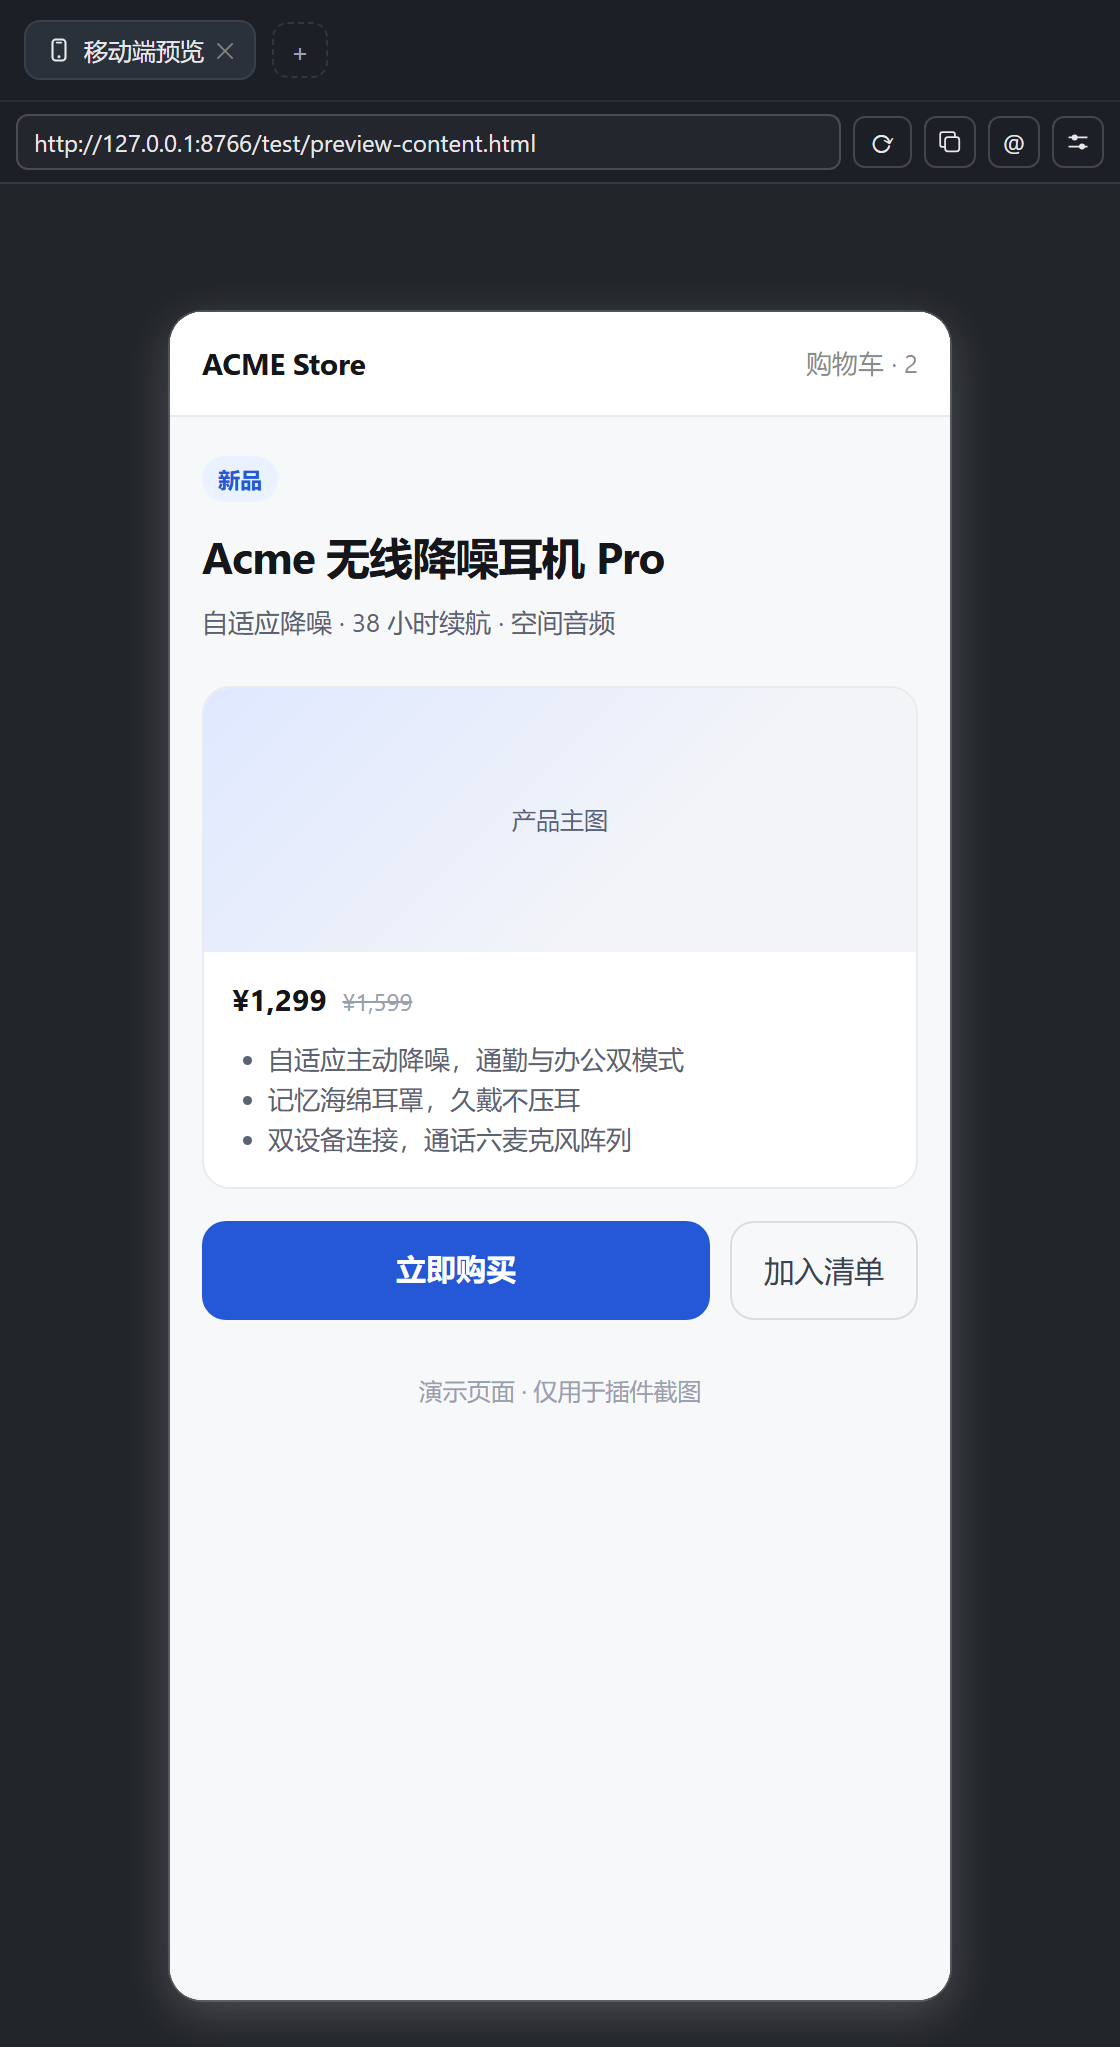
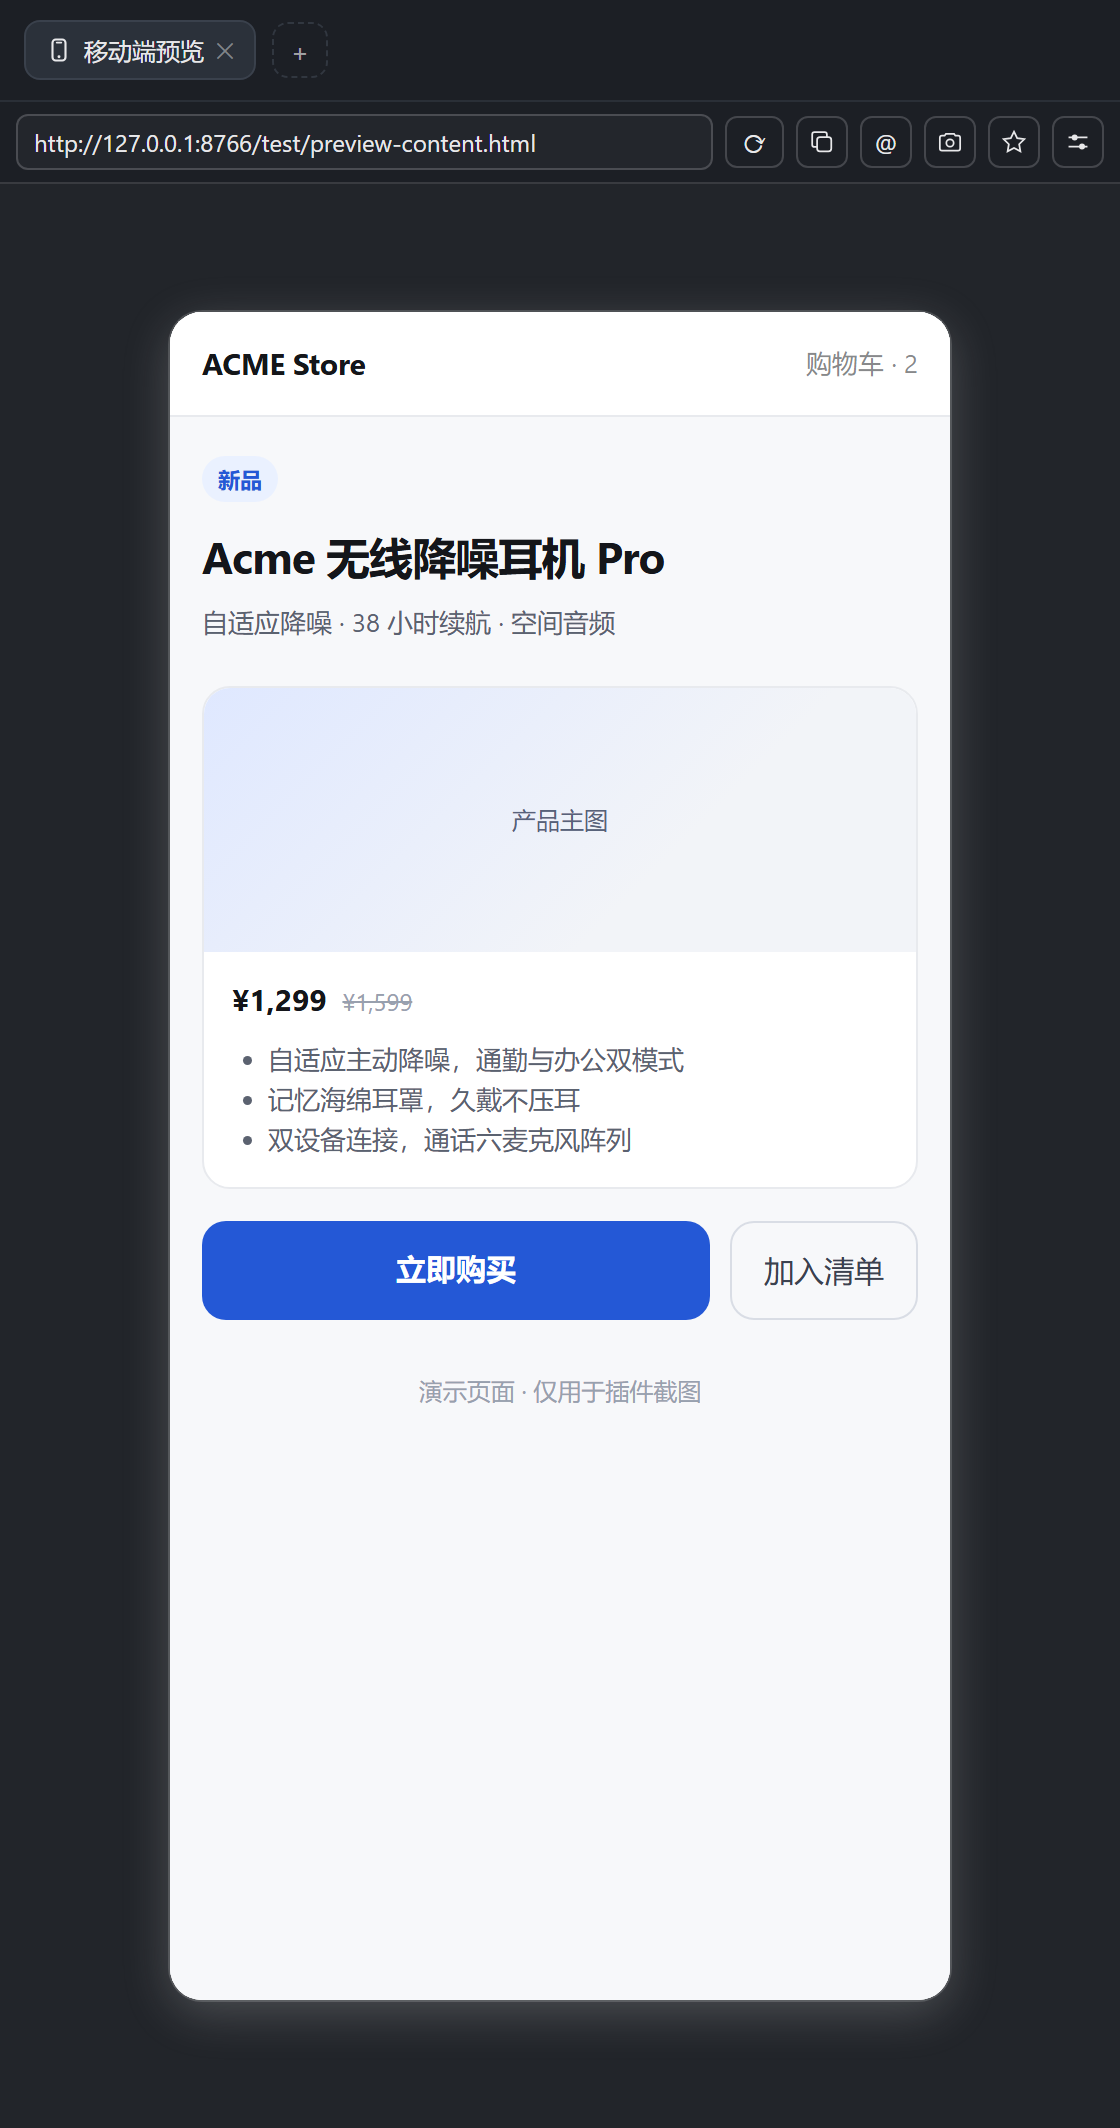
feat: remember a default home page and screenshot the device frame (v0.3.0)

diff --git a/client.js b/client.js
@@ -12,6 +12,8 @@ window.__ModuleLoader__.load({
     const KIND = 'mobile-browser';
     /** Per-profile memory of the last device size. */
     const SIZE_STORAGE_KEY = 'dsh.sidebar-mobile-browser.size';
+    /** Per-profile default page: a blank tab of this type opens it. */
+    const HOME_STORAGE_KEY = 'dsh.sidebar-mobile-browser.home';
     /** Plugin stylesheet identity inside the page. */
     const STYLE_KEY = 'dsh-sidebar-mobile-browser/client.css';
     /** How long a remembered page stays offered to the `@` menu. */
@@ -69,6 +71,15 @@ window.__ModuleLoader__.load({
       'command.url': '引用当前预览页地址',
       'command.urlHint': '把预览页 URL 写进输入框',
       'error.insert': '插入失败：该会话的输入框尚未就绪。',
+      'action.home.set': '设为默认主页',
+      'action.home.clear': '取消默认主页',
+      'empty.openHome': '打开默认主页',
+      'empty.home': '默认主页：{url}',
+      'action.shot': '截图（捕获时请选择"当前标签页"）',
+      'action.shotCopied': '截图已复制',
+      'action.shotSaved': '截图已下载',
+      'error.captureDenied': '截图未完成：捕获被取消或不被允许。可改用系统截图（Win+Shift+S）。',
+      'error.captureBlank': '截图失败：没有取到画面，请重试或改用系统截图。',
     };
 
     const en = {
@@ -95,6 +106,15 @@ window.__ModuleLoader__.load({
       'command.url': 'Insert the preview page URL',
       'command.urlHint': 'Write the preview page URL into the composer',
       'error.insert': 'Insertion failed: this session has no composer yet.',
+      'action.home.set': 'Set as default page',
+      'action.home.clear': 'Clear default page',
+      'empty.openHome': 'Open the default page',
+      'empty.home': 'Default page: {url}',
+      'action.shot': 'Screenshot (pick "This tab" when asked)',
+      'action.shotCopied': 'Screenshot copied',
+      'action.shotSaved': 'Screenshot downloaded',
+      'error.captureDenied': 'Screenshot cancelled or not permitted. Use the system screenshot (Win+Shift+S) instead.',
+      'error.captureBlank': 'Screenshot failed: no frame was captured. Retry, or use the system screenshot.',
     };
 
     /** Stylesheet: inherits the surrounding ink with color-mix, no fixed palette. */
@@ -118,6 +138,9 @@ window.__ModuleLoader__.load({
 .dmb-frame{position:absolute;top:0;left:0;border:0;background:#fff;transform-origin:top left}
 .dmb-empty{max-width:280px;text-align:center;opacity:.72;line-height:1.6}
 .dmb-empty-title{font-weight:600;margin-bottom:4px}
+.dmb-empty-actions{margin-top:10px;display:flex;flex-direction:column;align-items:center;gap:6px}
+.dmb-empty-home{opacity:.6;word-break:break-all}
+.dmb-btn[aria-pressed="true"]{background:color-mix(in srgb,currentColor 12%,transparent);border-color:color-mix(in srgb,currentColor 38%,transparent)}
 .dmb-error{padding:0 10px 8px;color:#d9534f}
 .dmb-title{display:inline-flex;align-items:center;gap:5px;min-width:0;overflow:hidden;text-overflow:ellipsis;white-space:nowrap}
 `;
@@ -159,6 +182,46 @@ window.__ModuleLoader__.load({
       const number = Math.round(Number(value));
       if (!Number.isFinite(number)) return MIN_SIDE;
       return Math.min(MAX_SIDE, Math.max(MIN_SIDE, number));
+    }
+
+    /** Read the remembered default page; anything unusable reads as "none". */
+    function readHome() {
+      try {
+        const raw = window.localStorage.getItem(HOME_STORAGE_KEY);
+        if (raw === null || raw === '') return '';
+        const value = normalizeUrl(raw);
+        return value.ok ? value.url : '';
+      } catch (error) {
+        void error;
+      }
+      return '';
+    }
+
+    /** Remember the default page; an empty string forgets it. */
+    function writeHome(url) {
+      try {
+        if (url !== '') {
+          window.localStorage.setItem(HOME_STORAGE_KEY, url);
+        } else if (typeof window.localStorage.removeItem === 'function') {
+          window.localStorage.removeItem(HOME_STORAGE_KEY);
+        } else {
+          window.localStorage.setItem(HOME_STORAGE_KEY, '');
+        }
+      } catch (error) {
+        void error;
+      }
+    }
+
+    /** Save one blob through a temporary anchor. */
+    function downloadBlob(blob, name) {
+      const href = URL.createObjectURL(blob);
+      const anchor = document.createElement('a');
+      anchor.href = href;
+      anchor.download = name;
+      document.body.appendChild(anchor);
+      anchor.click();
+      anchor.remove();
+      window.setTimeout(() => URL.revokeObjectURL(href), 2000);
     }
 
     /** Turn typed input into an addressable http(s) URL. */
@@ -259,6 +322,37 @@ window.__ModuleLoader__.load({
       );
     }
 
+    /** A star: filled once this page is the default home, outlined otherwise. */
+    function HomeGlyph({ filled }) {
+      return h(
+        'svg',
+        { width: 14, height: 14, viewBox: '0 0 16 16', 'aria-hidden': true, style: { display: 'block' } },
+        h('path', {
+          d: 'M8 2.1l1.82 3.7 4.08.6-2.95 2.87.7 4.06L8 11.4l-3.65 1.92.7-4.06L2.1 6.4l4.08-.6z',
+          fill: filled === true ? 'currentColor' : 'none',
+          stroke: 'currentColor',
+          strokeWidth: 1.2,
+          strokeLinejoin: 'round',
+        }),
+      );
+    }
+
+    /** A camera outline for the screenshot button. */
+    function CameraGlyph() {
+      return h(
+        'svg',
+        { width: 14, height: 14, viewBox: '0 0 16 16', 'aria-hidden': true, style: { display: 'block' } },
+        h('path', {
+          d: 'M2.2 5.6c0-.66.54-1.2 1.2-1.2h1.54l.74-1.1h4.64l.74 1.1h1.54c.66 0 1.2.54 1.2 1.2v6.1c0 .66-.54 1.2-1.2 1.2H3.4c-.66 0-1.2-.54-1.2-1.2z',
+          fill: 'none',
+          stroke: 'currentColor',
+          strokeWidth: 1.2,
+          strokeLinejoin: 'round',
+        }),
+        h('circle', { cx: 8, cy: 8.6, r: 2.1, fill: 'none', stroke: 'currentColor', strokeWidth: 1.2 }),
+      );
+    }
+
     return {
       inject: ['slots', 'locale', 'sessions', 'commandUi', 'sidebarRight', 'sidebarRightTabs', 'inputTriggers'],
       apply(ctx) {
@@ -307,7 +401,9 @@ window.__ModuleLoader__.load({
             const entry = pages.get(tabId);
             return entry === undefined ? '' : entry.url;
           }, [tabId]);
-          const initial = seeded.ok ? seeded.url : remembered;
+          /** The default page this profile opens when a tab starts blank. */
+          const [home, setHome] = React.useState(readHome);
+          const initial = seeded.ok ? seeded.url : remembered !== '' ? remembered : home;
 
           const [size, setSize] = React.useState(readSize);
           const [draft, setDraft] = React.useState(initial);
@@ -316,6 +412,8 @@ window.__ModuleLoader__.load({
           const [revision, setRevision] = React.useState(0);
           const [copied, setCopied] = React.useState(false);
           const [inserted, setInserted] = React.useState(false);
+          /** '' | 'copied' | 'saved' — what the screenshot button just did. */
+          const [shot, setShot] = React.useState('');
           const [error, setError] = React.useState('');
           /** The size row is collapsed by default; the toolbar toggle reveals it. */
           const [sizeOpen, setSizeOpen] = React.useState(false);
@@ -359,16 +457,19 @@ window.__ModuleLoader__.load({
             return () => window.clearTimeout(timer);
           }, [inserted]);
 
+          React.useEffect(() => {
+            if (shot === '') return undefined;
+            const timer = window.setTimeout(() => setShot(''), 1600);
+            return () => window.clearTimeout(timer);
+          }, [shot]);
+
           const open = () => {
             const result = normalizeUrl(draft);
             if (!result.ok) {
               setError(result.reason === 'scheme' ? copy('error.scheme') : copy('error.empty'));
               return;
             }
-            setError('');
-            setDraft(result.url);
-            setUrl(result.url);
-            setRevision((value) => value + 1);
+            show(result.url);
           };
 
           const copyUrl = () => {
@@ -394,6 +495,98 @@ window.__ModuleLoader__.load({
             } catch (failure) {
               void failure;
               failed();
+            }
+          };
+
+          /** Show one already-validated address without re-reading the draft. */
+          const show = (target) => {
+            setError('');
+            setDraft(target);
+            setUrl(target);
+            setRevision((value) => value + 1);
+          };
+
+          /** Remember this page as the default home, or forget it again. */
+          const toggleHome = () => {
+            if (url === '') return;
+            const next = home === url ? '' : url;
+            setHome(next);
+            writeHome(next);
+          };
+
+          /**
+           * Photograph the device frame. Cross-origin pages cannot be read back
+           * from their iframe (their pixels are opaque), so the honest capture
+           * path is to screen-capture the tab and crop the frame out of it.
+           */
+          const shootPage = async () => {
+            if (url === '') return;
+            const stage = stageRef.current;
+            const media = typeof navigator === 'undefined' ? undefined : navigator.mediaDevices;
+            if (stage === null || media === undefined || typeof media.getDisplayMedia !== 'function') {
+              setError(copy('error.captureDenied'));
+              return;
+            }
+            let stream;
+            try {
+              stream = await media.getDisplayMedia({ video: { frameRate: 2 }, audio: false });
+            } catch (failure) {
+              void failure;
+              setError(copy('error.captureDenied'));
+              return;
+            }
+            try {
+              const video = document.createElement('video');
+              video.muted = true;
+              video.srcObject = stream;
+              await video.play();
+              if (video.videoWidth === 0) {
+                await new Promise((resolve) => {
+                  window.setTimeout(resolve, 1200);
+                  video.addEventListener('loadeddata', resolve, { once: true });
+                });
+              }
+              const target = stage.querySelector('.dmb-device');
+              const box = (target === null ? stage : target).getBoundingClientRect();
+              const scaleX = video.videoWidth === 0 ? 1 : video.videoWidth / Math.max(1, window.innerWidth);
+              const scaleY = video.videoHeight === 0 ? 1 : video.videoHeight / Math.max(1, window.innerHeight);
+              const canvas = document.createElement('canvas');
+              canvas.width = Math.max(1, Math.round(box.width * scaleX));
+              canvas.height = Math.max(1, Math.round(box.height * scaleY));
+              const painter = canvas.getContext('2d');
+              if (painter === null) {
+                setError(copy('error.captureBlank'));
+                return;
+              }
+              painter.drawImage(
+                video,
+                box.left * scaleX, box.top * scaleY, box.width * scaleX, box.height * scaleY,
+                0, 0, canvas.width, canvas.height,
+              );
+              const blob = await new Promise((resolve) => canvas.toBlob(resolve, 'image/png'));
+              if (blob === null) {
+                setError(copy('error.captureBlank'));
+                return;
+              }
+              const clipboard = navigator.clipboard;
+              if (clipboard !== undefined && typeof clipboard.write === 'function' && typeof window.ClipboardItem === 'function') {
+                try {
+                  await clipboard.write([new window.ClipboardItem({ 'image/png': blob })]);
+                  setError('');
+                  setShot('copied');
+                  return;
+                } catch (failure) {
+                  void failure;
+                }
+              }
+              downloadBlob(blob, `mobile-preview-${hostOf(url)}-${Date.now()}.png`);
+              setError('');
+              setShot('saved');
+            } catch (failure) {
+              void failure;
+              setError(copy('error.captureBlank'));
+            } finally {
+              stream.getTracks().forEach((track) => track.stop());
             }
           };
 
@@ -442,6 +635,7 @@ window.__ModuleLoader__.load({
           };
 
           const currentPreset = size.preset === undefined ? 'custom' : size.preset;
+          const isHome = home !== '' && home === url;
 
           return h(
             'div',
@@ -496,6 +690,23 @@ window.__ModuleLoader__.load({
                 disabled: url === '',
                 onClick: insertUrl,
               }, '@'),
+              h('button', {
+                type: 'button',
+                className: 'dmb-btn dmb-btn-icon',
+                title: shot === 'copied' ? copy('action.shotCopied') : shot === 'saved' ? copy('action.shotSaved') : copy('action.shot'),
+                'aria-label': copy('action.shot'),
+                disabled: url === '',
+                onClick: shootPage,
+              }, h(CameraGlyph)),
+              h('button', {
+                type: 'button',
+                className: 'dmb-btn dmb-btn-icon',
+                title: isHome ? copy('action.home.clear') : copy('action.home.set'),
+                'aria-label': copy('action.home.set'),
+                'aria-pressed': isHome,
+                disabled: url === '',
+                onClick: toggleHome,
+              }, h(HomeGlyph, { filled: isHome })),
               h('button', {
                 type: 'button',
                 className: 'dmb-btn dmb-btn-icon',
@@ -567,7 +778,10 @@ window.__ModuleLoader__.load({
               url === ''
                 ? h('div', { className: 'dmb-empty' },
                     h('div', { className: 'dmb-empty-title' }, copy('empty.title')),
-                    h('div', null, copy('empty.body')))
+                    h('div', null, copy('empty.body')),
+                    home === '' ? null : h('div', { className: 'dmb-empty-actions' },
+                      h('button', { type: 'button', className: 'dmb-btn', onClick: () => show(home) }, copy('empty.openHome')),
+                      h('div', { className: 'dmb-empty-home' }, copy('empty.home', { url: hostOf(home) }))))
                 : h('div', {
                     className: 'dmb-device',
                     style: { width: `${Math.round(size.width * scale)}px`, height: `${Math.round(size.height * scale)}px` },

diff --git a/README.md b/README.md
@@ -13,6 +13,8 @@ insertion of the current page URL from the composer, one-click copy.
 - `@` 候选：本会话预览过的页面，最近一个标「当前页面地址」，选中即插入纯文本 URL
 - `/url` 快捷指令：选中即把当前页面地址写进输入框（不用开 `@` 菜单、不用鼠标）
 - 工具栏 `@` 按钮：同一件事的一键版，插到光标处，原有草稿不动
+- 工具栏 `⭐` 按钮：把当前页设为**默认主页**（`localStorage`），之后新开的空白标签页自动打开它；再点一次取消
+- 工具栏相机按钮：**截图当前页** —— 抓的是设备框里的真实像素（复制到剪贴板，失败则下载 PNG）
 - 工具栏：回车即打开、`⟳` 重载、复制图标（成功后短暂变对勾）、滑块图标切换尺寸栏
 - 多标签页；切换标签不重载页面（`keepMounted`）；重启 DSH 后能恢复上次打开的页面
 
@@ -31,10 +33,14 @@ insertion of the current page URL from the composer, one-click copy.
 2. 地址栏输入 `example.com` 或完整 URL，**回车**打开（无单独“打开”按钮）。
 3. 点工具栏最右的**滑块图标**展开尺寸栏：选预设，或选「自定义」直接改宽高数字（回车 / 失焦生效）；
    再点一次收起。默认收起，所以每次新开标签页都从「只有地址栏」的紧凑状态开始。
-4. 工具栏：`⟳` 重载、复制图标复制当前 URL、`@` 把当前 URL 插入对话框、滑块图标切换尺寸栏；
-   尺寸栏展开时右侧还有 `⟲` 横竖屏互换。
-5. 每个会话记住最近 5 个预览页，用 `@` 可以回到其中任一页。
-6. 对话框输入 `@` → 选「当前页面地址」即可把 URL 作为纯文本插入；
+4. 工具栏：`⟳` 重载、复制图标复制当前 URL、`@` 把当前 URL 插入对话框、相机图标截图、
+   `⭐` 设为默认主页、滑块图标切换尺寸栏；尺寸栏展开时右侧还有 `⟲` 横竖屏互换。
+5. 点 `⭐` 之后，新开的空白标签页会直接打开这个默认主页；空状态里也有「打开默认主页」按钮。
+   再点一次 `⭐` 取消默认主页。
+6. 点相机图标截图：浏览器会弹出捕获选择器，选 **「当前标签页」**，插件按设备框裁剪后复制到剪贴板
+   （剪贴板不支持图片时改为下载 `mobile-preview-<host>-<时间戳>.png`）。
+7. 每个会话记住最近 5 个预览页，用 `@` 可以回到其中任一页。
+8. 对话框输入 `@` → 选「当前页面地址」即可把 URL 作为纯文本插入；
    或输入 `/url` 回车 —— 当前页面地址直接写进输入框，草稿里已有的内容会保留。
    两者都只在**该会话已经打开过预览页**时出现。
 
@@ -64,6 +70,9 @@ insertion of the current page URL from the composer, one-click copy.
 - 只改视口尺寸，**不伪造移动端 User-Agent**；依赖真机 UA 的站点预览会与手机不一致。
 - 桌面端嵌入的 webview 标签页不参与尺寸模拟（本插件只作用于自己注册的标签页类型）。
 - 跨域页面的地址栏不会跟随站内跳转（浏览器同源策略限制），此时用书签列表或重新输入地址。
+- 截图走**屏幕捕获**（`getDisplayMedia`）再按设备框裁剪：跨域 iframe 的像素无法被直接读取，
+  屏幕捕获是唯一能做到「所见即所截」的路子。因此每次截图都要在系统选择器里选**「当前标签页」**；
+  若环境拒绝屏幕捕获（例如未开放该能力的 Electron 桌面端），会提示改用系统截图（Win+Shift+S）。
 - DSH 以 HTTPS 提供服务时，`http://` 页面会被浏览器按混合内容拦截。
 
 ## 工作原理

diff --git a/CHANGELOG.md b/CHANGELOG.md
@@ -1,5 +1,20 @@
 # Changelog
 
+## v0.3.0 — 2026-10-24
+
+**新增**
+
+- 工具栏 `⭐`：把当前页设为**默认主页**（存 `localStorage`），之后新开的空白标签页自动打开它；
+  再点一次取消。空状态里也有「打开默认主页」按钮，并显示当前默认站点的域名。
+- 工具栏相机按钮：**截图当前页**。跨域 iframe 的像素无法被读取，所以走屏幕捕获（`getDisplayMedia`）
+  再按设备框裁剪：成功后复制到剪贴板，剪贴板不支持图片时下载 `mobile-preview-<host>-<时间戳>.png`；
+  捕获被拒 / 取消时在工具栏下方给出可操作的提示。
+
+**测试**
+
+- `npm test` 新增断言：工具栏同时有截图与默认主页按钮、`⭐` 写入并点亮、再点清除、
+  以及「空白标签页用默认主页起头」；storage stub 补 `removeItem`。
+
 ## v0.2.2 — 2026-10-24
 
 **变更**
